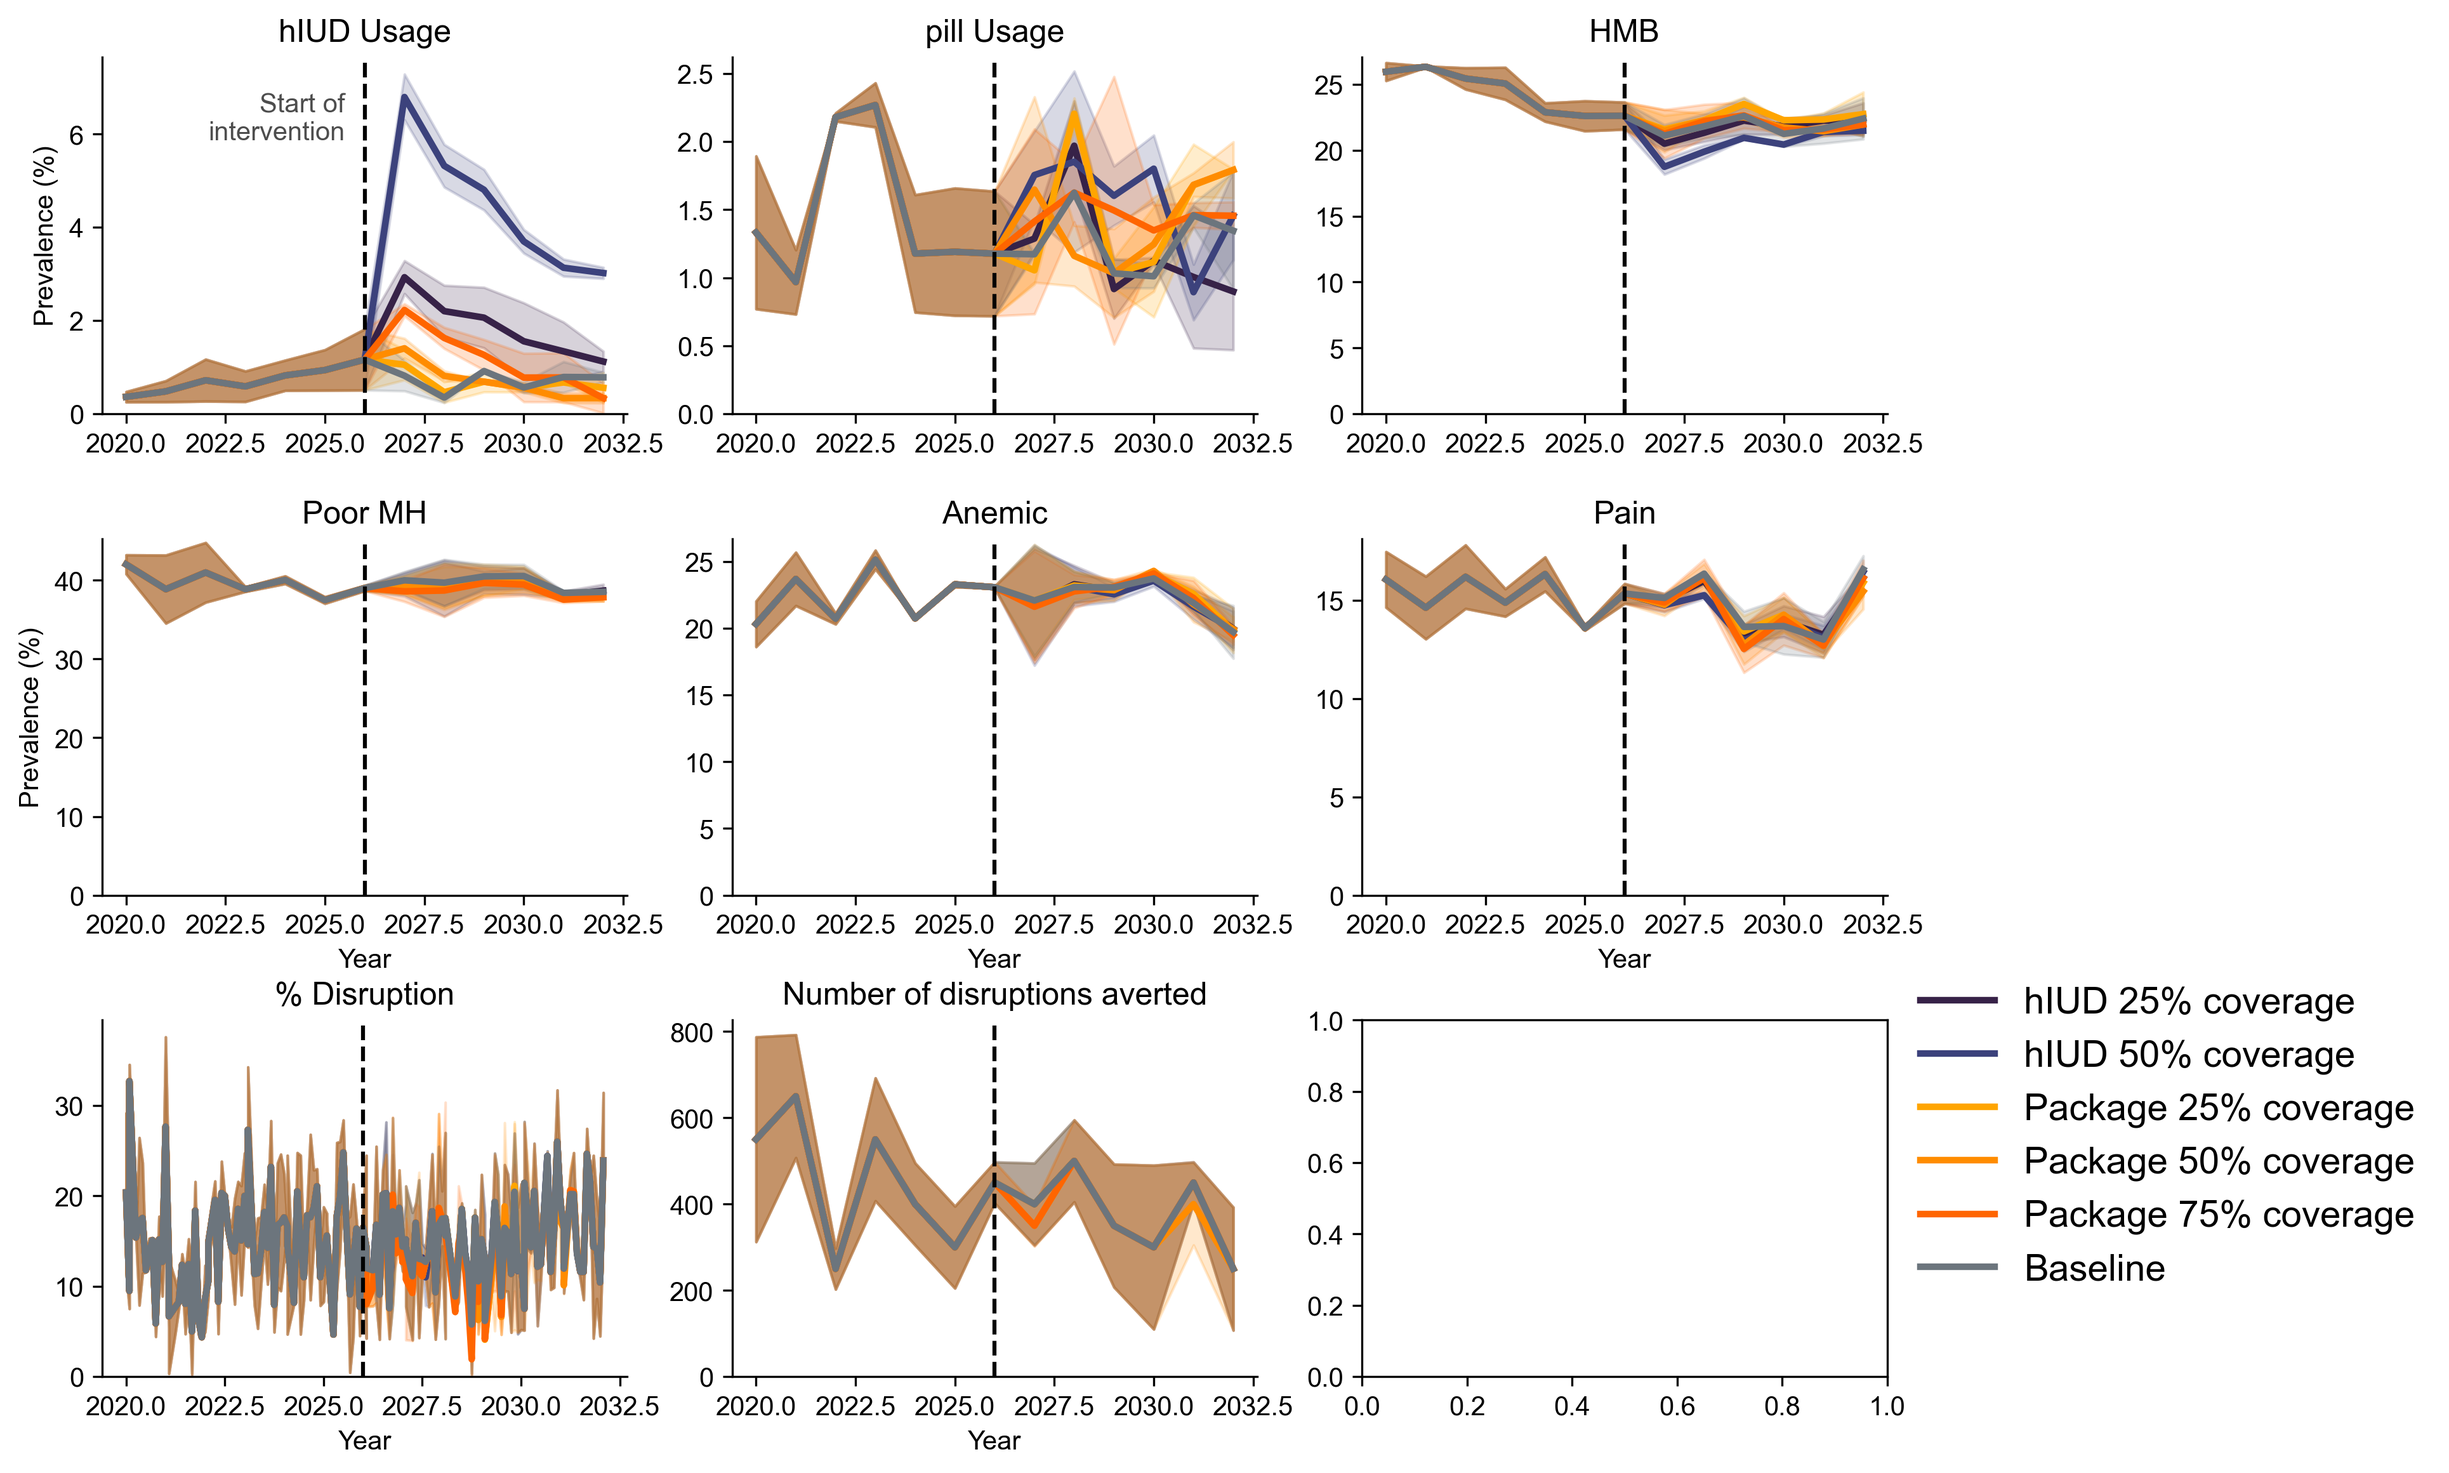
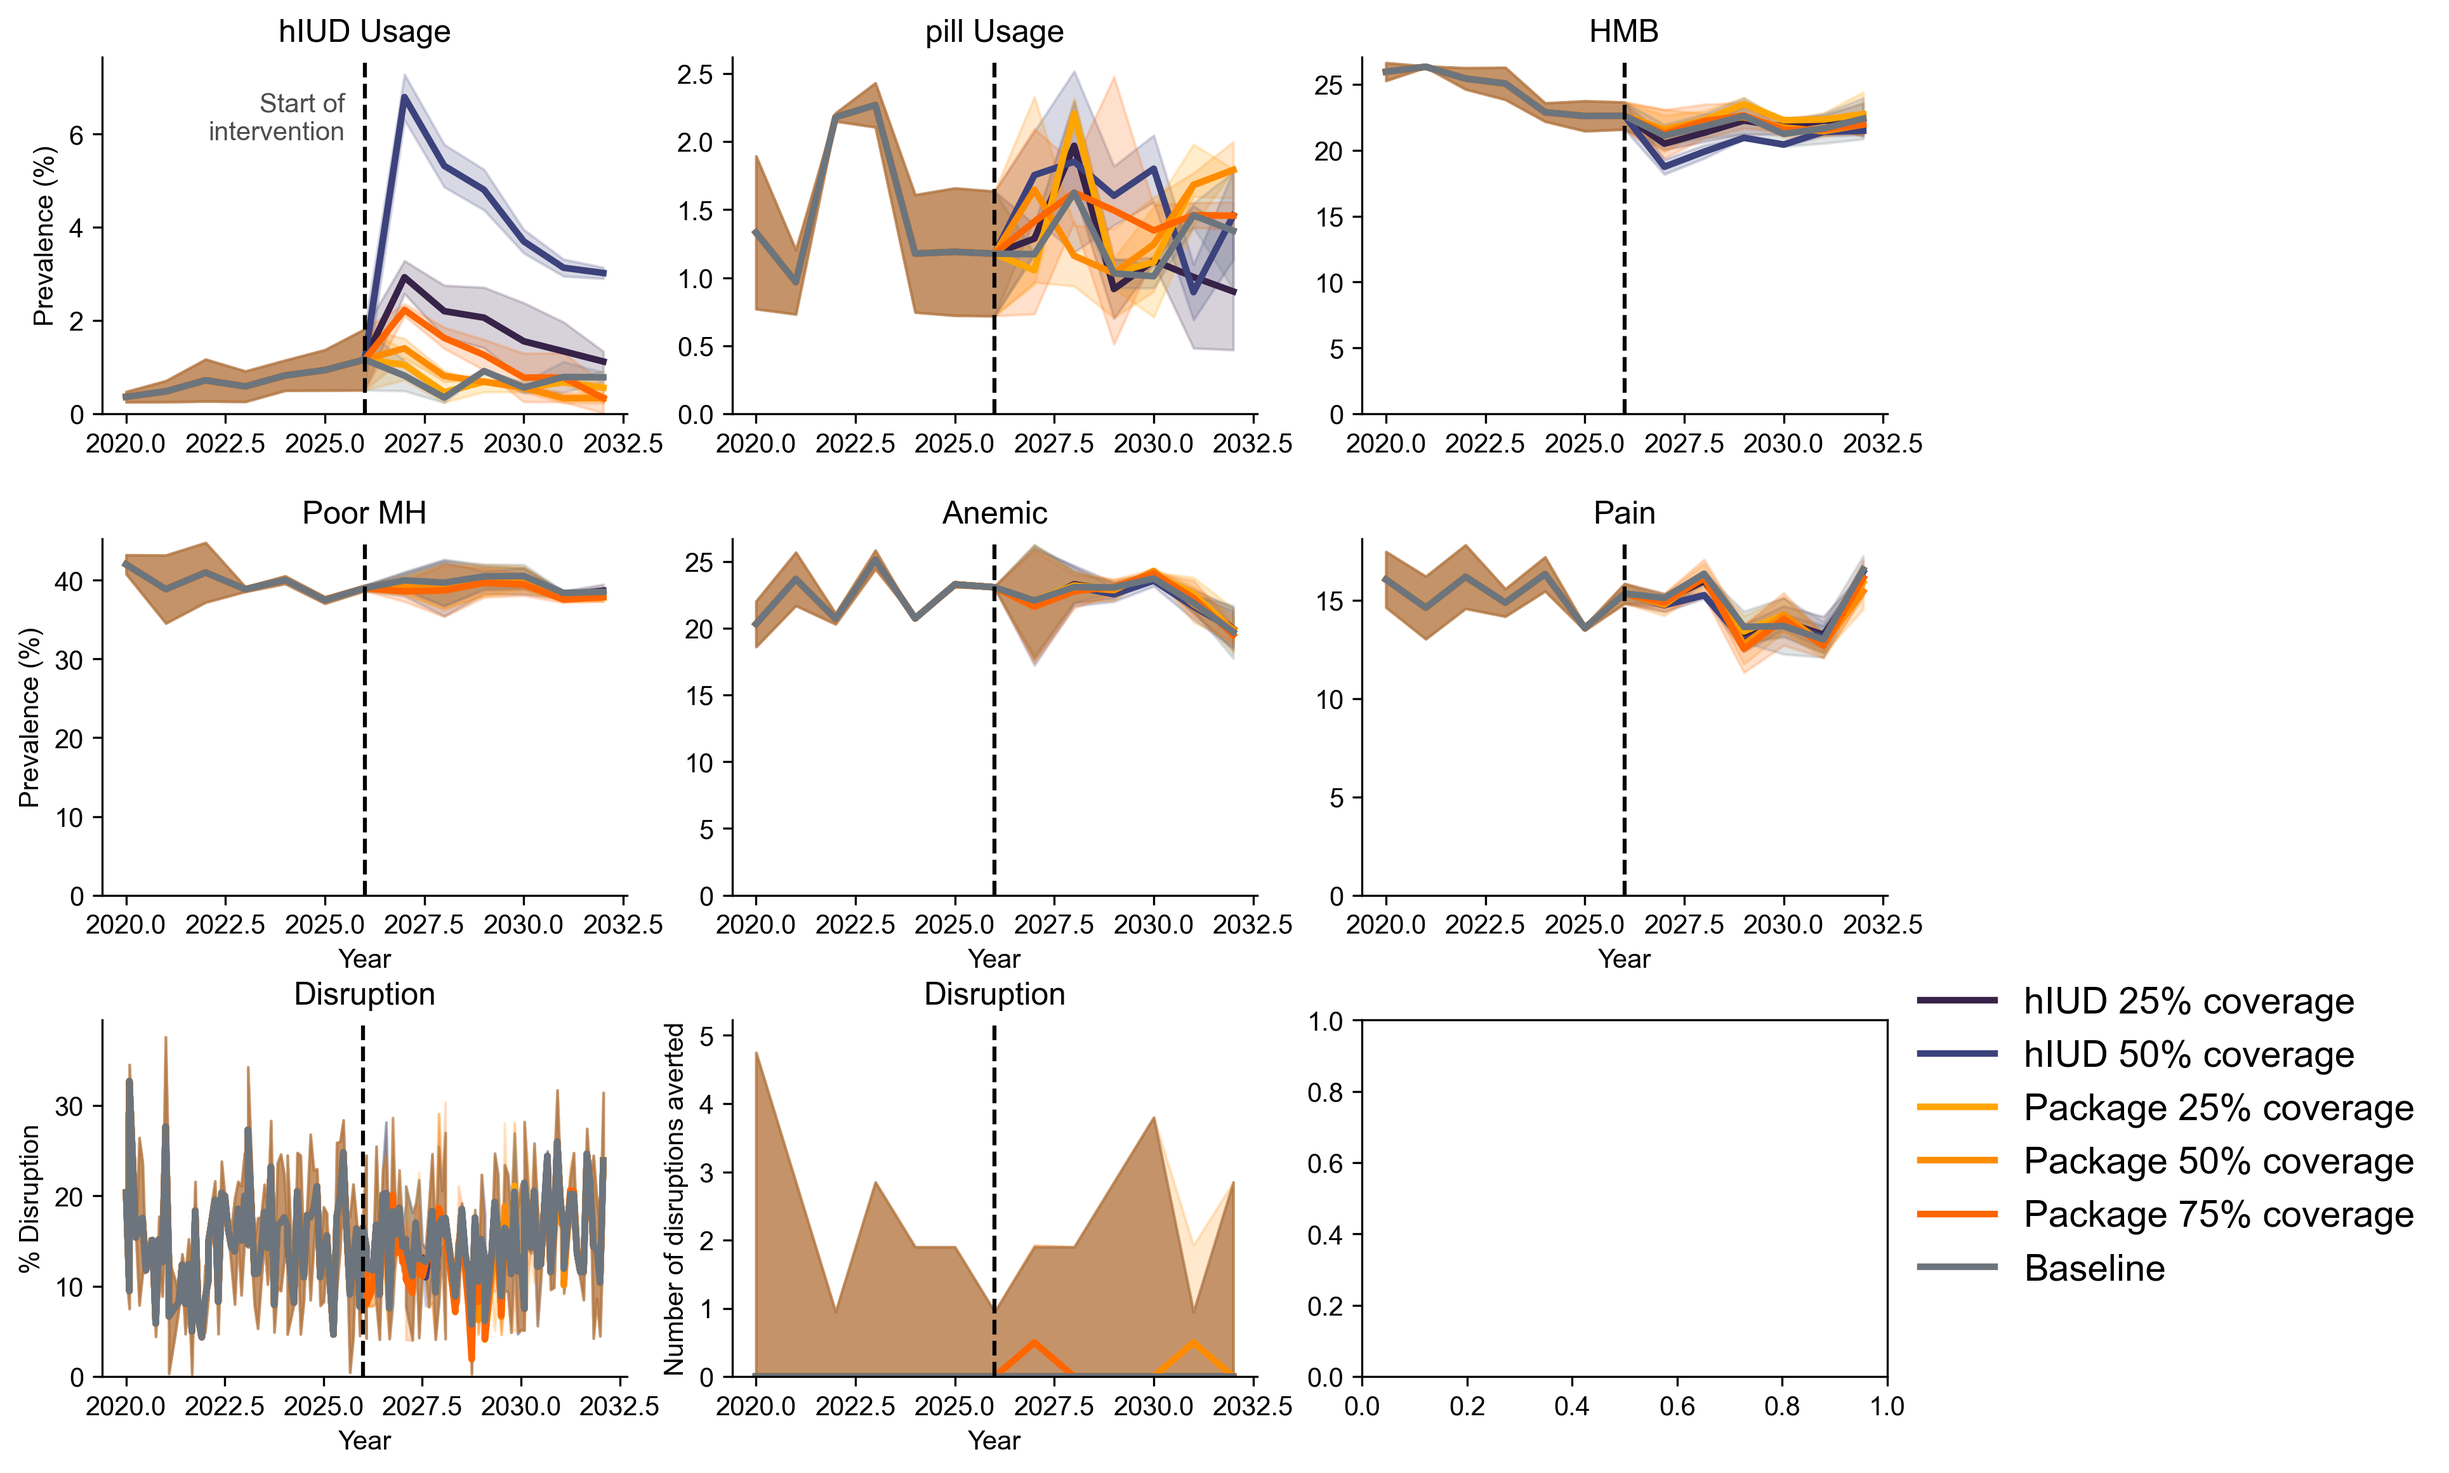
update plotting

Changed region(s): [[0.2488, 0.6514, 0.5286, 0.9617], [0.1244, 0.6514, 0.1866, 0.6825], [0.0, 0.7755, 0.0311, 0.8065]]

diff --git a/run_kenya_nsaid_added.py b/run_kenya_nsaid_added.py
@@ -769,7 +769,7 @@ if __name__ == '__main__':
             fixed_scale=False,
             plotfolder=plotfolder_stochastic,
             res_to_plot=['hiud', 'pill', 'hmb', 'poor_mh', 'anemic', 'pain', 'prop_disrupted','n_disruptions'],  
-            labels=['hIUD Usage', 'pill Usage', 'HMB', 'Poor MH', 'Anemic', 'Pain', '% Disruption','Number of disruptions averted'],  
+            labels=['hIUD Usage', 'pill Usage', 'HMB', 'Poor MH', 'Anemic', 'Pain', 'Disruption','Disruption'],  
             filename='hmb_scenario-package_stochastic_results.png'
         )
         
@@ -782,7 +782,7 @@ if __name__ == '__main__':
             fixed_scale=True,
             plotfolder=plotfolder_stochastic,
             res_to_plot=['hiud', 'pill', 'hmb', 'poor_mh', 'anemic', 'pain', 'prop_disrupted','n_disruptions'],  
-            labels=['hIUD Usage', 'pill Usage', 'HMB', 'Poor MH', 'Anemic', 'Pain', '% Disruption','Number of disruptions averted'],  
+            labels=['hIUD Usage', 'pill Usage', 'HMB', 'Poor MH', 'Anemic', 'Pain', 'Disruption','Disruption'],  
             filename='hmb_scenario-package_stochastic_results_y-axis-scaled-0-100.png'
         )
         
@@ -799,7 +799,7 @@ if __name__ == '__main__':
             fixed_scale=False,
             plotfolder=plotfolder_stochastic,
             res_to_plot=['hiud', 'pill', 'hmb', 'poor_mh', 'anemic', 'pain', 'prop_disrupted','n_disruptions'],  
-            labels=['hIUD Usage', 'pill Usage', 'HMB', 'Poor MH', 'Anemic', 'Pain', '% Disruption','Number of disruptions averted'],  
+            labels=['hIUD Usage', 'pill Usage', 'HMB', 'Poor MH', 'Anemic', 'Pain', 'Disruption','Disruption'],    
             filename='hmb_package_stochastic_results_subset-scenarios.png'
         )
         
@@ -813,7 +813,7 @@ if __name__ == '__main__':
             fixed_scale=True,
             plotfolder=plotfolder_stochastic,
             res_to_plot=['hiud', 'pill', 'hmb', 'poor_mh', 'anemic', 'pain', 'prop_disrupted','n_disruptions'],  
-            labels=['hIUD Usage', 'pill Usage', 'HMB', 'Poor MH', 'Anemic', 'Pain', '% Disruption','Number of disruptions averted'],  
+            labels=['hIUD Usage', 'pill Usage', 'HMB', 'Poor MH', 'Anemic', 'Pain', 'Disruption','Disruption'],  
             filename='hmb_package_stochastic_results_subset-scenarios_y-axis-scaled-0-100.png'
         )
         
